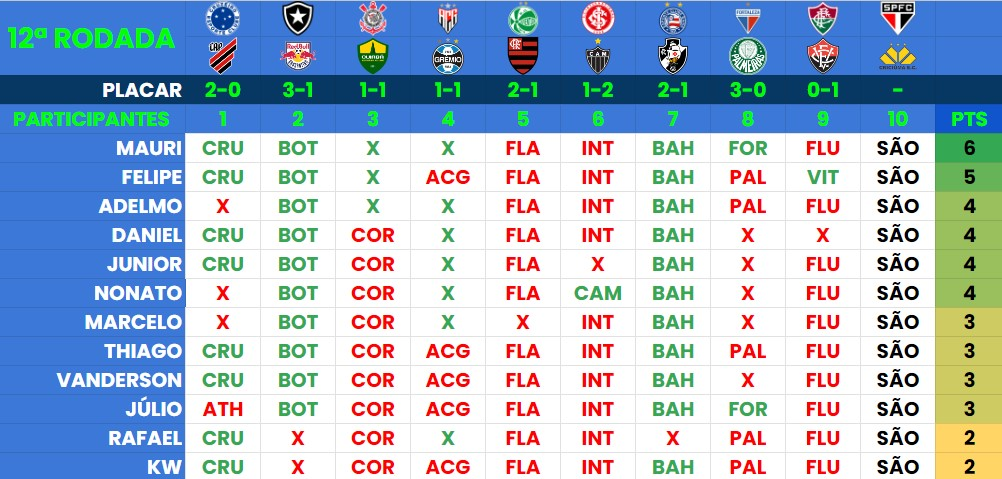
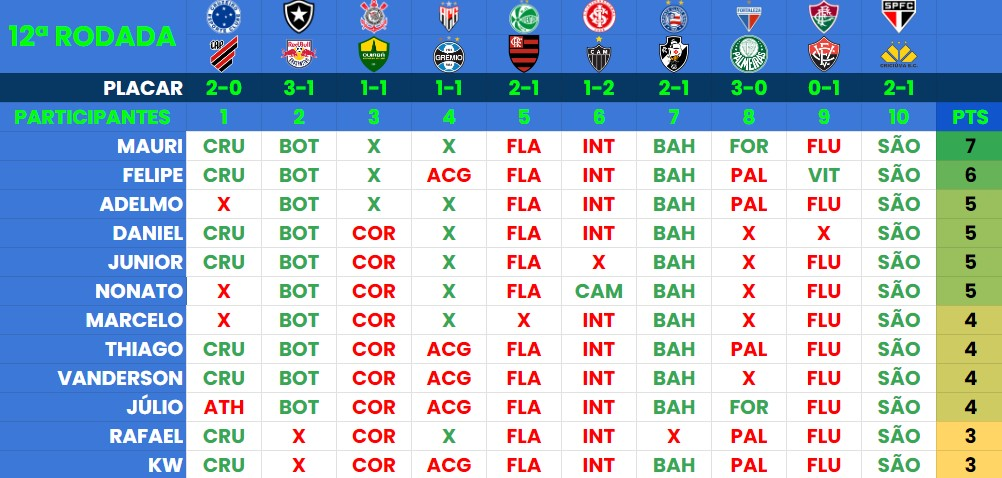
U

Changed region(s): [[0.0, 0.0, 1.0, 0.9958], [0.9591, 0.5272, 0.99, 0.5565], [0.9591, 0.4686, 0.99, 0.4979]]

diff --git a/index.html b/index.html
@@ -51,10 +51,10 @@
           <img src="./assets/Round12.jpg" alt="Logo do Campeonato Brasileiro 2022" />
         </div>
         <div class="text">
-          <h2 class="title"><a href="./predictor.html">MERCADO FECHADO!</a>
+          <h2 class="title"><a href="./predictor.html">Mauri vence a Rodada 12 com sete pontos</a>
           </h2>
           <p>
-            Bola rolando pela 12ª Rodada
+            Cearense faz sete pontos e sai da parte de baixo da classificação
           </p>
           <a class="button" href="./predictor.html">Resumão da 12ª Rodada</a>
         </div>
@@ -177,17 +177,7 @@
           <div class="content">
             <h2 class="rank"><small>#</small>1</h2>
             <h4>Júnior</h4>
-            <p>54 Pontos</p>
-          </div>
-        </div>
-        <div class="list">
-          <div class="imgBx">
-            <img src="./assets/fotos/fortaleza.png">
-          </div>
-          <div class="content">
-            <h2 class="rank"><small>#</small>2</h2>
-            <h4>KW</h4>
-            <p>54 Pontos</p>
+            <p>59 Pontos</p>
           </div>
         </div>
         <div class="list">
@@ -195,9 +185,19 @@
             <img src="./assets/fotos/santacruz.png">
           </div>
           <div class="content">
-            <h2 class="rank"><small>#</small>3</h2>
+            <h2 class="rank"><small>#</small>2</h2>
             <h4>Adelmo</h4>
-            <p>53 Pontos</p>
+            <p>58 Pontos</p>
+          </div>
+        </div>
+        <div class="list">
+          <div class="imgBx">
+            <img src="./assets/fotos/fortaleza.png">
+          </div>
+          <div class="content">
+            <h2 class="rank"><small>#</small>3</h2>
+            <h4>KW</h4>
+            <p>57 Pontos</p>
           </div>
         </div>
         <div class="list">
@@ -207,7 +207,7 @@
           <div class="content">
             <h2 class="rank"><small>#</small>4</h2>
             <h4>Marcelo</h4>
-            <p>51 Pontos</p>
+            <p>55 Pontos</p>
           </div>
         </div>
         <div class="list">
@@ -217,7 +217,7 @@
           <div class="content">
             <h2 class="rank"><small>#</small>5</h2>
             <h4>Rafael</h4>
-            <p>50 Pontos</p>
+            <p>53 Pontos</p>
           </div>
         </div>
         <div class="list">
@@ -227,7 +227,7 @@
           <div class="content">
             <h2 class="rank"><small>#</small>6</h2>
             <h4>Thiago</h4>
-            <p>48 Pontos</p>
+            <p>52 Pontos</p>
           </div>
         </div>
         <div class="list">
@@ -237,7 +237,7 @@
           <div class="content">
             <h2 class="rank"><small>#</small>7</h2>
             <h4>Júlio César</h4>
-            <p>48 Pontos</p>
+            <p>52 Pontos</p>
           </div>
         </div>
         <div class="list">
@@ -247,17 +247,7 @@
           <div class="content">
             <h2 class="rank"><small>#</small>8</h2>
             <h4>Daniel</h4>
-            <p>47 Pontos</p>
-          </div>
-        </div>
-        <div class="list">
-          <div class="imgBx">
-            <img src="./assets/fotos/santos.png">
-          </div>
-          <div class="content">
-            <h2 class="rank"><small>#</small>9</h2>
-            <h4>Felipe</h4>
-            <p>45 Pontos</p>
+            <p>52 Pontos</p>
           </div>
         </div>
         <div class="list">
@@ -265,9 +255,19 @@
             <img src="./assets/fotos/fortaleza.png">
           </div>
           <div class="content">
-            <h2 class="rank"><small>#</small>10</h2>
+            <h2 class="rank"><small>#</small>9</h2>
             <h4>Mauri</h4>
-            <p>45 Pontos</p>
+            <p>52 Pontos</p>
+          </div>
+        </div>
+        <div class="list">
+          <div class="imgBx">
+            <img src="./assets/fotos/santos.png">
+          </div>
+          <div class="content">
+            <h2 class="rank"><small>#</small>10</h2>
+            <h4>Felipe</h4>
+            <p>51 Pontos</p>
           </div>
         </div>
         <div class="list">
@@ -277,7 +277,7 @@
           <div class="content">
             <h2 class="rank"><small>#</small>11</h2>
             <h4>Nonato</h4>
-            <p>43 Pontos</p>
+            <p>48 Pontos</p>
           </div>
         </div>
         <div class="list">
@@ -287,7 +287,7 @@
           <div class="content">
             <h2 class="rank"><small>#</small>12</h2>
             <h4>Vanderson</h4>
-            <p>42 Pontos</p>
+            <p>46 Pontos</p>
           </div>
         </div>
       </div>
